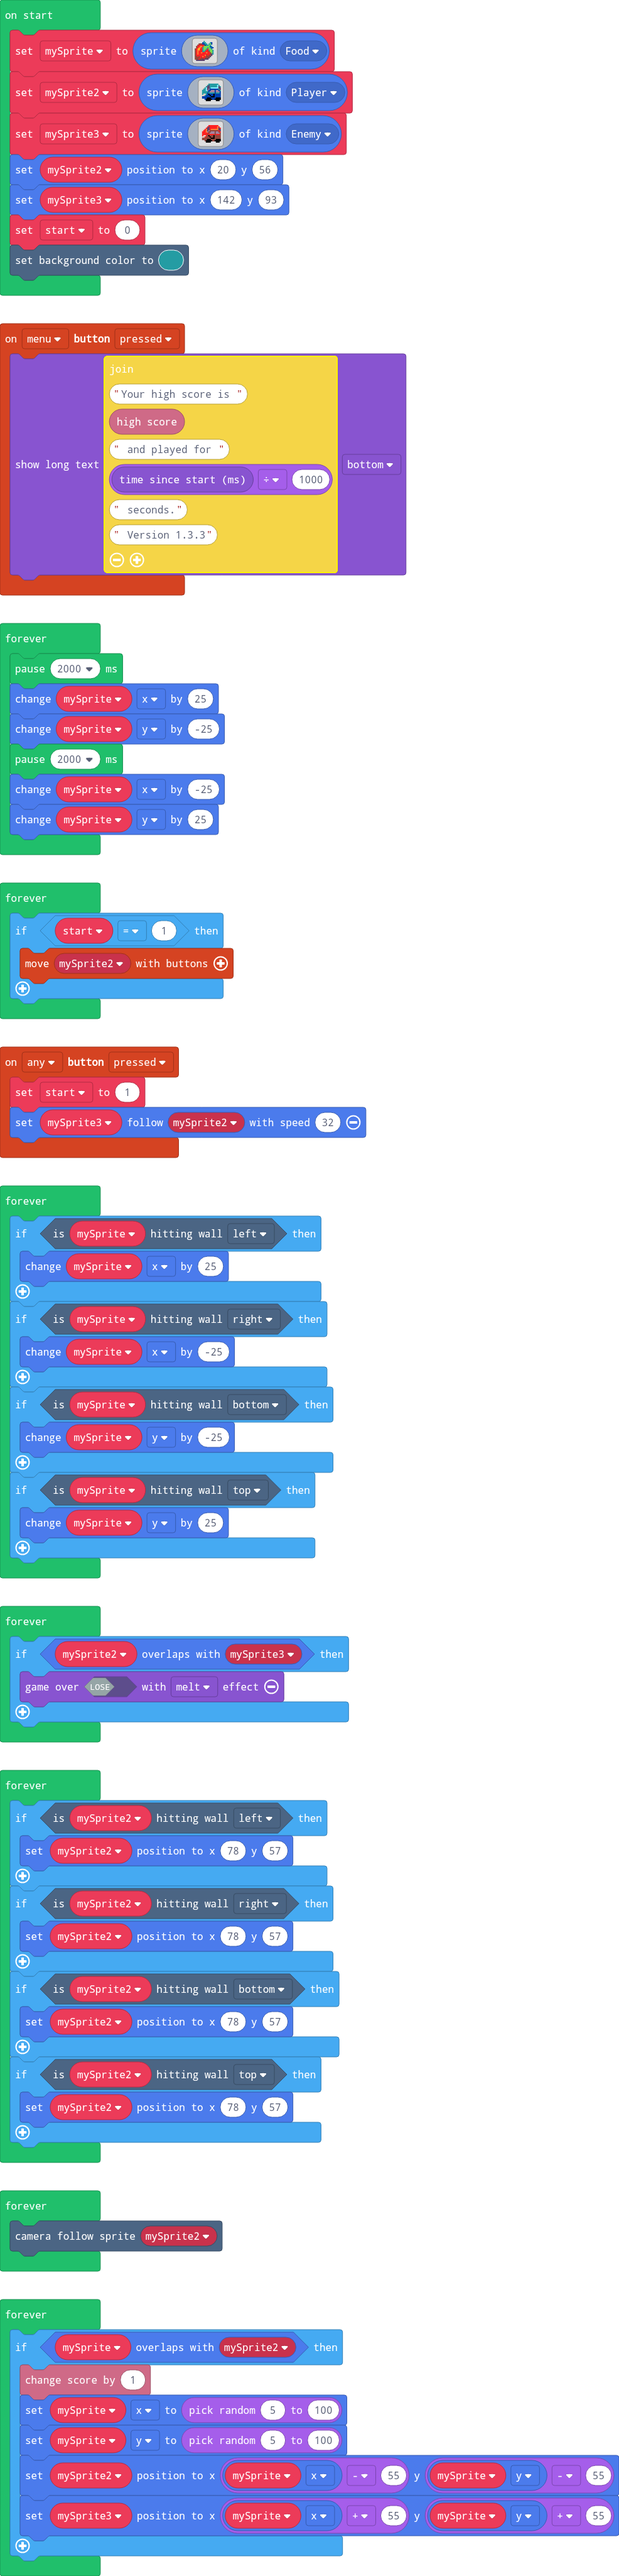
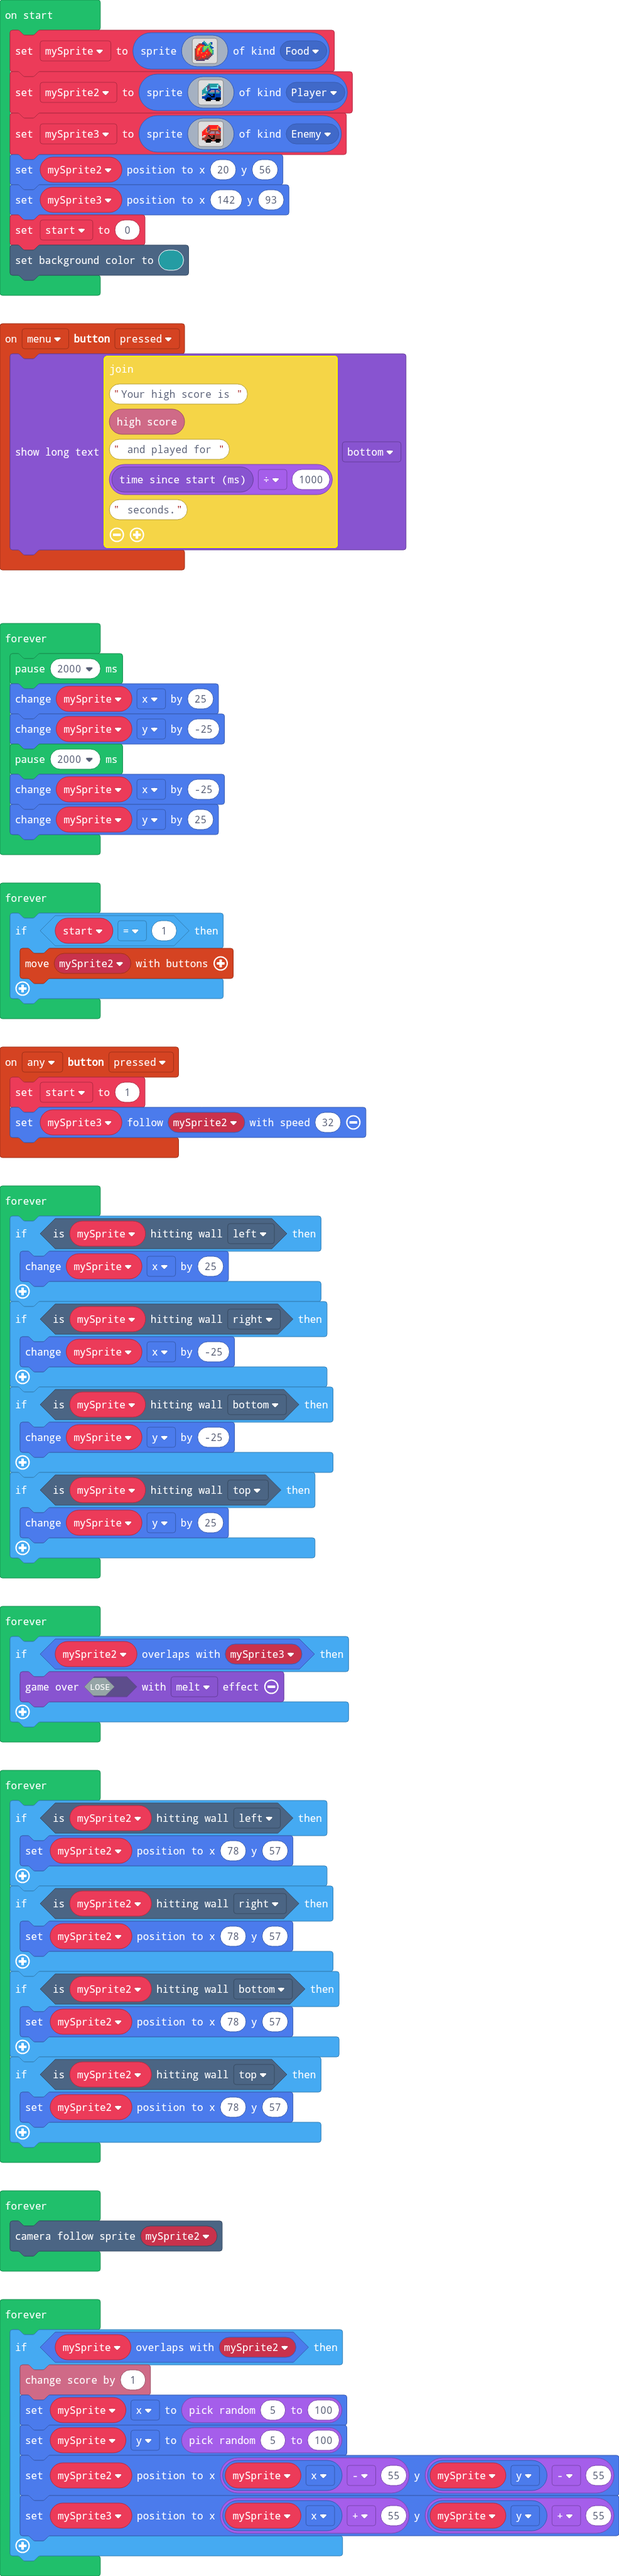
Update pxt.json, main.blocks, main.ts

Changed region(s): [[0.0, 0.1561, 0.6694, 0.2498]]

diff --git a/main.ts b/main.ts
@@ -3,7 +3,7 @@ namespace SpriteKind {
     export const Bonus = SpriteKind.create()
 }
 controller.menu.onEvent(ControllerButtonEvent.Pressed, function () {
-    game.showLongText("Your high score is " + info.highScore() + " and played for " + game.runtime() / 1000 + " seconds." + " Version 1.3.3", DialogLayout.Bottom)
+    game.showLongText("Your high score is " + info.highScore() + " and played for " + game.runtime() / 1000 + " seconds.", DialogLayout.Bottom)
 })
 controller.anyButton.onEvent(ControllerButtonEvent.Pressed, function () {
     start = 1
